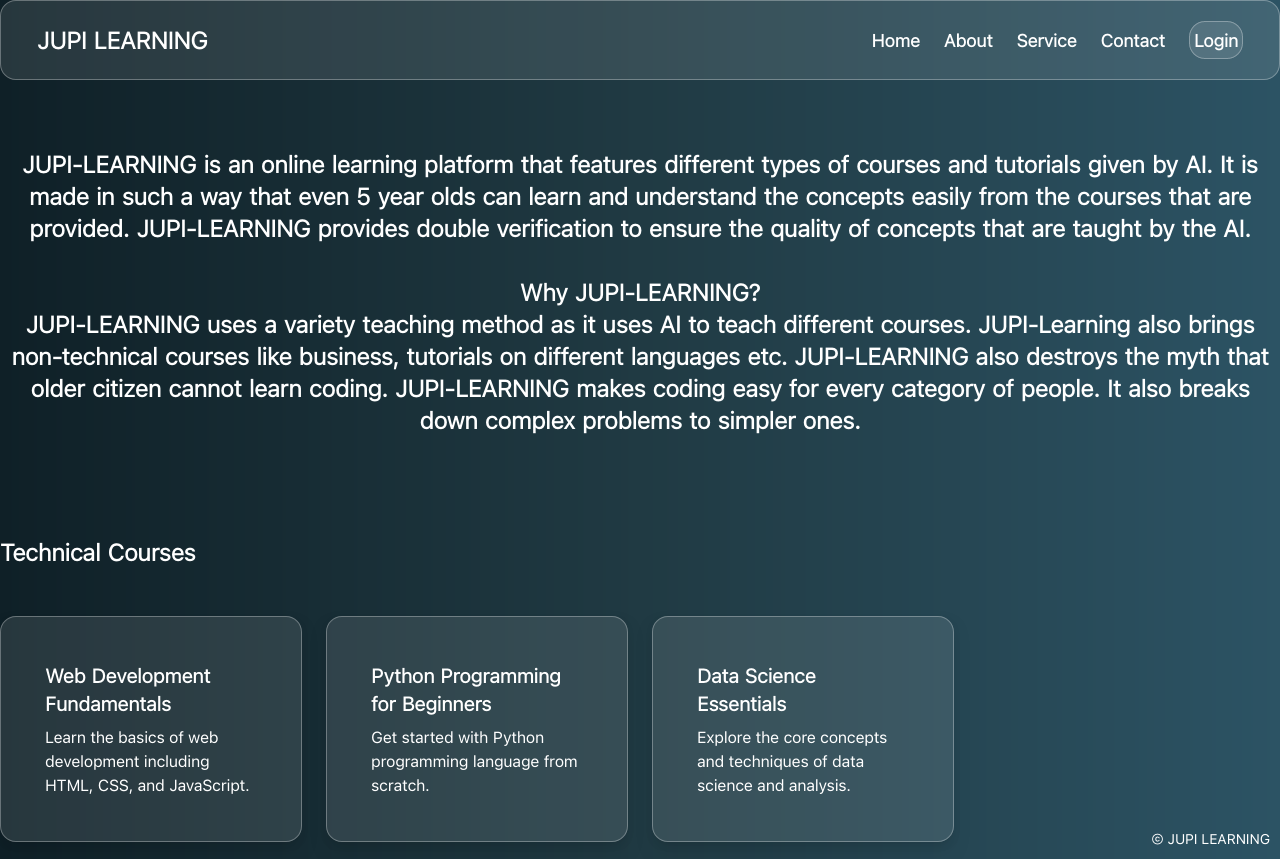
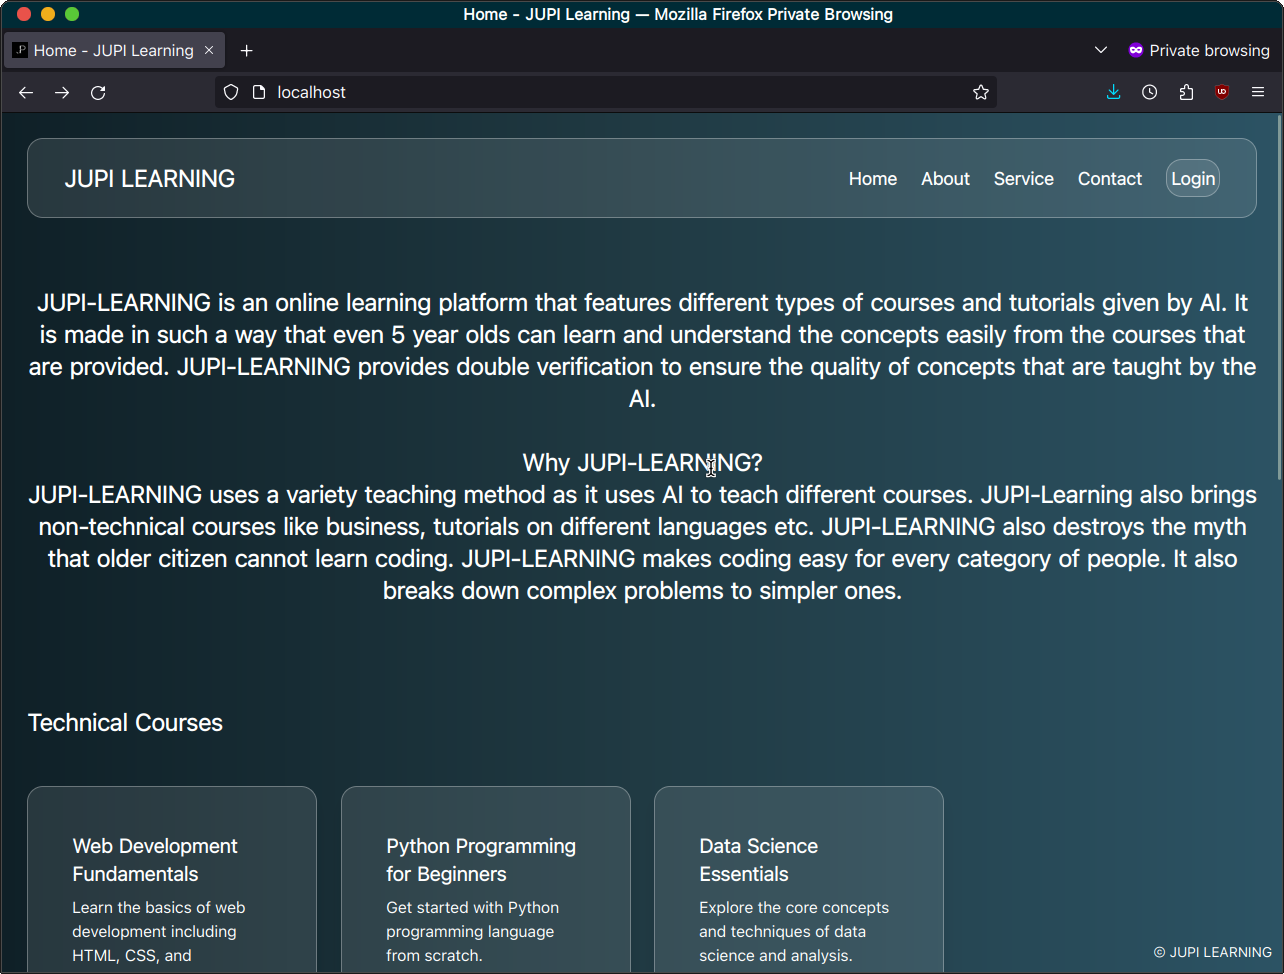
modified:   __pycache__/app.cpython-38.pyc 	modified:   __pycache__/backend.cpython-38.pyc 	modified:   app.py 	modified:   screenshots/running-flask.png 	new file:   templates/404.html 	modified:   templates/index.html

Changed region(s): [[0.0, 0.0, 1.0, 0.6356], [0.0, 0.7264, 1.0, 1.0], [0.0, 0.6356, 0.1562, 0.6659]]

diff --git a/templates/404.html b/templates/404.html
@@ -1,0 +1,71 @@
+<!DOCTYPE html>
+<html lang="en">
+<head>
+	<meta charset="UTF-8">
+	<meta name="viewport" content="width=device-width, initial-scale=1.0">
+	<title>404 - Not found</title>
+	<style>
+		body {
+			margin: 0;
+			padding: 0;
+			display: flex;
+			flex-direction: column;
+			justify-content: center;
+			align-items: center;
+			min-height: 100vh;
+			background: linear-gradient(to right, #0F2027, #203A43, #2C5364);
+			font-family: 'Arial', sans-serif;
+			position: relative;
+		}
+
+		.container {
+			background: rgba(255, 255, 255, 0.15);
+			border-radius: 15px;
+			padding: 20px;
+			box-shadow: 0 4px 6px rgba(0, 0, 0, 0.1);
+			width: 90%;
+			max-width: 400px;
+			text-align: center;
+			perspective: 1000px;
+		}
+
+		.button {
+			width: 100%;
+			padding: 10px;
+			border: none;
+			border-radius: 5px;
+			background: #26D66E;
+			color: #fff;
+			cursor: pointer;
+			outline: none;
+		}
+
+		.footer {
+			position: absolute;
+			bottom: 10px;
+			right: 10px;
+			color: #fff;
+			font-size: 12px;
+		}
+
+		.watermark {
+			position: fixed;
+			bottom: 10px;
+			right: 10px;
+			font-size: 14px;
+			color: rgba(255, 255, 255, 1);
+			pointer-events: none;
+		}
+	</style>
+</head>
+<body>
+
+<div class="container">
+	<h1 style="color: #ffffff;">404 - Not Found</h1>
+	<h2 style="color: #ffffff;">Oops! the page you are looking for is not available on the server</h1>
+	<a href="/" class="button" style="text-decoration:none" >Return to Homepage</a>
+</div>
+
+<footer><div class="watermark">© JUPI LEARNING</div></footer>
+</body>
+</html>

diff --git a/templates/index.html b/templates/index.html
@@ -10,6 +10,7 @@
     <style>
         body {
             background: linear-gradient(to right, #0F2027, #203A43, #2C5364);
+            padding: 25px;
         }
 
         .glass-panel {

diff --git a/app.py b/app.py
@@ -31,6 +31,10 @@ def favicon():
 def home():
 	return display("index.html")
 
+@app.errorhandler(404)
+def not_found(e):
+  return render_template("404.html")
+
 @app.route("/about")
 def about():
 	return display("about.html")
